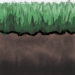
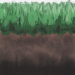
TileGroup now has a Translate function that should call each Tile's translate function. I believe this will work for scrolling. Still struggling to understand how to set up elements in relation to the scrollbox.

diff --git a/Valkyrie.Graphics/Tile.cs b/Valkyrie.Graphics/Tile.cs
@@ -10,5 +10,43 @@ namespace Valkyrie.Graphics
             Rectangle = rect;
             ImageSource = imageSource;
         }
+
+        //========================================================
+
+        /*----------------------------
+         * 
+         * Translate
+         * moves the tile by an 
+         * X and Y offset
+         * 
+         * --------------------------*/
+
+        public void Translate(float deltaX, float deltaY)
+        {
+            SkiaOrigin.Offset(deltaX, deltaY);
+            Rectangle.Offset(deltaX, deltaY);
+        }
+
+        //===========================================================
+
+        /*---------------------------
+         * 
+         * Move
+         * moves to a given SK coordinate
+         * 
+         * -------------------------*/
+
+        public void Move(SKPoint target)
+        {
+            SkiaOrigin = target;
+            float height = Rectangle.Height;
+            float width = Rectangle.Width;
+
+            Rectangle = new SKRect(
+                SkiaOrigin.X,
+                SkiaOrigin.X + width,
+                SkiaOrigin.Y,
+                SkiaOrigin.Y + height);
+        }
     }
 }

diff --git a/Valkyrie.Graphics/TileGroup.cs b/Valkyrie.Graphics/TileGroup.cs
@@ -29,8 +29,6 @@ namespace Valkyrie.Graphics
         {
             foreach (var row in Tiles)
             {
-                /*
-                 */
 
                 for (int i = 0; i < row.Count; i++)
                 {
@@ -44,7 +42,7 @@ namespace Valkyrie.Graphics
 
                     // middle tiles
 
-                    else if (i > 0 && i < row.Count)
+                    else if (i > 0 && i < row.Count - 1)
                     {
                         row[i].DisplayImage = MainTile;
                     }
@@ -145,13 +143,20 @@ namespace Valkyrie.Graphics
 
         public void Translate(float deltaX, float deltaY)
         {
-
+            foreach (var row in Tiles)
+            {
+                foreach (var col in row)
+                {
+                    col.Translate(deltaX, deltaY);
+                }
+            }
         }
 
         //===================================================================
 
         public void MoveTo(SKPoint skiaPoint)
         {
+
 
         }
     }

diff --git a/Valkyrie.Graphics/Drawable.cs b/Valkyrie.Graphics/Drawable.cs
@@ -28,6 +28,14 @@ namespace Valkyrie.Graphics
 
         //===========================================================
 
+        public SKPoint SkiaOrigin
+        {
+            get;
+            set;
+        }
+
+        //===========================================================
+
         public void Mirror()
         {
             /*

diff --git a/Valkyrie.Graphics/ScrollBox.cs b/Valkyrie.Graphics/ScrollBox.cs
@@ -187,6 +187,9 @@ namespace Valkyrie.Graphics
          * turn provide a starting point to 
          * convert it into a SKRect
          * 
+         * what is the current ScreenInfo's 
+         * bottom (height)? That is 
+         * 
          * --------------------------------------*/
 
         public SKRect ToSkia(GLRect r)

diff --git a/Valkyrie.App/Valkyrie.App/ViewModel/GamePageVM/LoadLevel.cs b/Valkyrie.App/Valkyrie.App/ViewModel/GamePageVM/LoadLevel.cs
@@ -106,6 +106,8 @@ namespace Valkyrie.App.ViewModel
                 tilegroup.InitTiles();
 
                 DeviceScreen.Tiles.Add(tilegroup);
+
+
             }
         }
 
